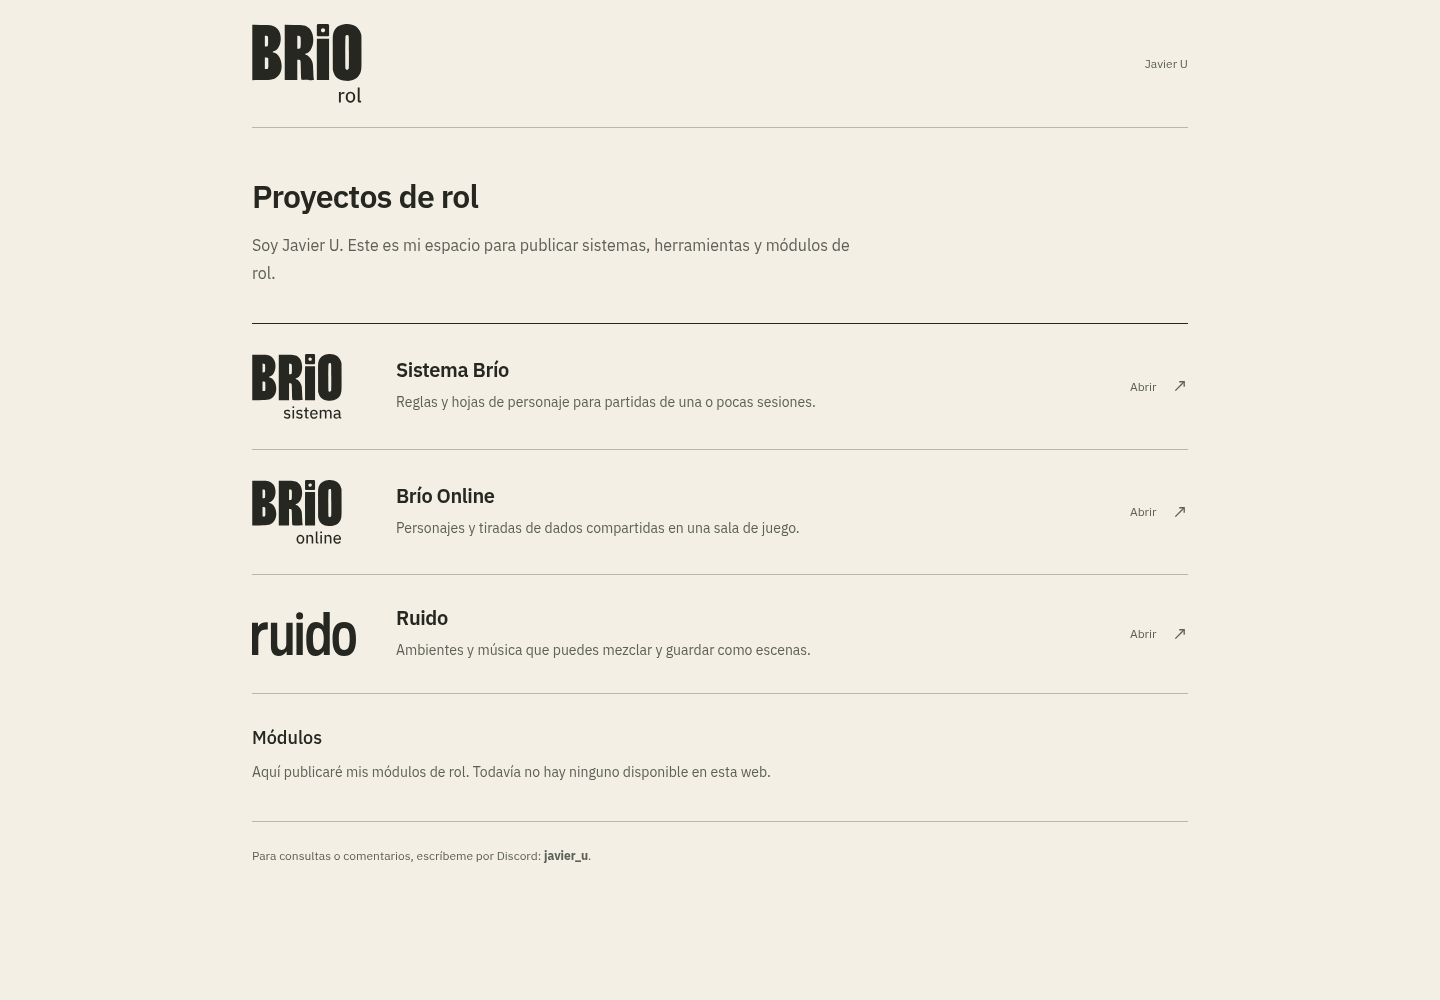
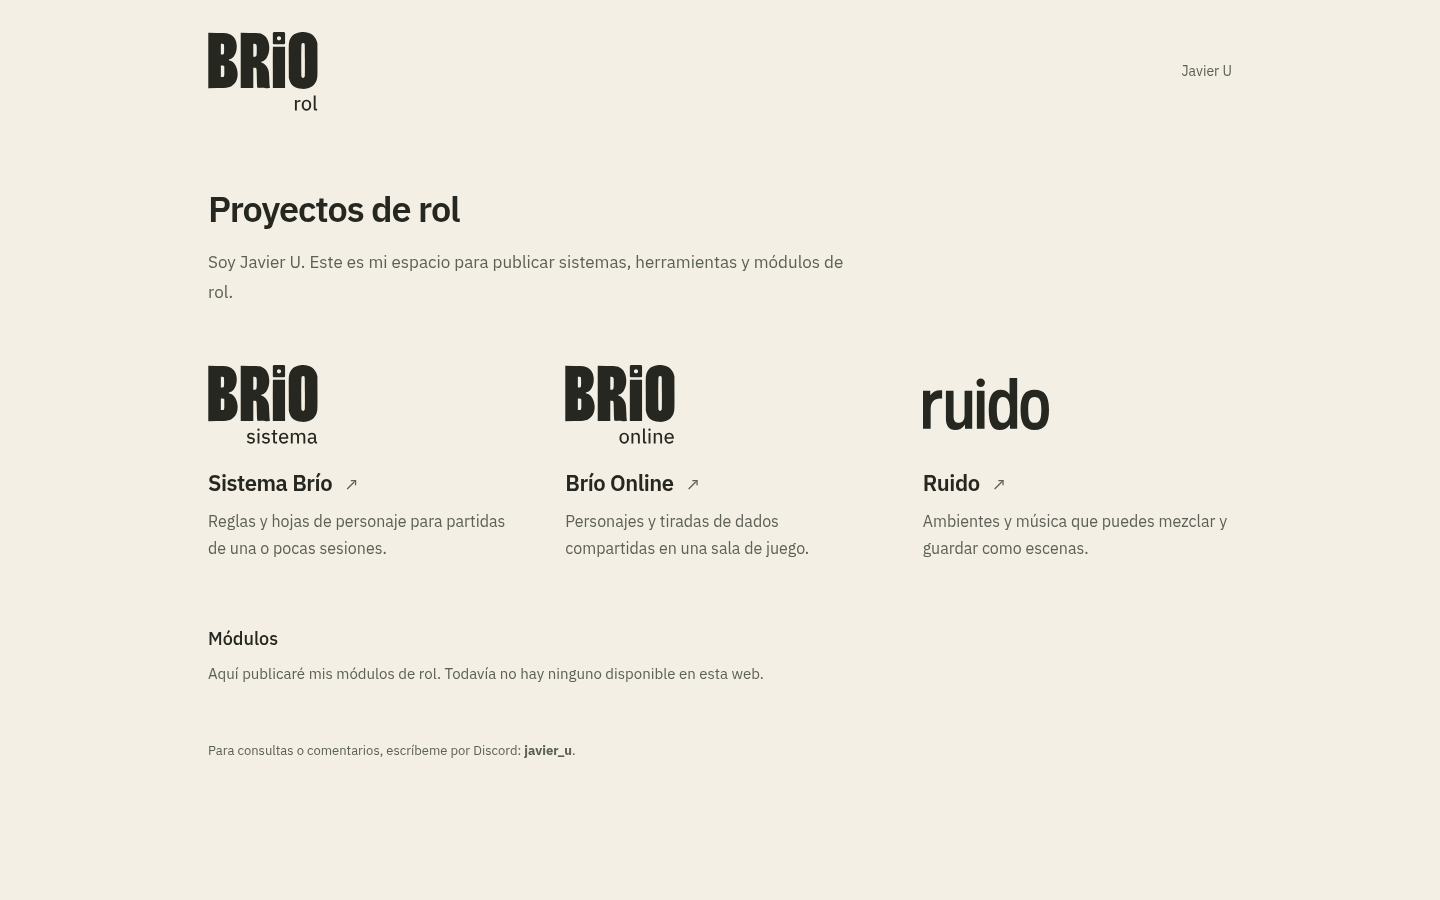
Use space and responsive columns for the Brío project directory

diff --git a/assets/landing.css b/assets/landing.css
@@ -1,13 +1,46 @@
-.directory-shell{max-width:1032px;padding:0 48px;margin:auto}.directory-header{display:flex;justify-content:space-between;align-items:center;gap:25px;padding:24px 0;border-bottom:1px solid var(--line)}.directory-header>a{display:flex;align-items:center;min-height:44px;gap:9px;font-size:12px;text-decoration:none}.directory-header img{width:110px;height:auto}.directory-header>a:last-child{color:var(--muted)}.directory-header>a:hover{color:var(--accent)}.directory-intro{padding:48px 0 35px}.directory-intro h1{font-family:var(--font-text);font-size:32px;font-weight:600;line-height:1.25;letter-spacing:-.025em}.directory-intro p{font-size:16px;line-height:1.8;max-width:610px;margin-top:15px;color:var(--muted)}.project-index{list-style:none;padding:0;border-top:1px solid var(--ink)}.project-index li{border-bottom:1px solid var(--line)}.project-index a{display:flex;align-items:center;justify-content:space-between;gap:36px;padding:27px 0;text-decoration:none}.project-index h2{font-family:var(--font-text);font-size:23px;font-weight:600;line-height:1.3;letter-spacing:-.02em}.project-index p{font-size:14px;line-height:1.8;color:var(--muted);margin-top:7px;max-width:660px}.directory-open{flex:none;display:inline-flex;align-items:center;gap:16px;font-size:12px;color:var(--muted)}.directory-open>span{font-size:19px}.project-index a:hover h2{text-decoration:underline;text-underline-offset:5px}.directory-modules{padding:31px 0 36px}.directory-modules h2{font-family:var(--font-text);font-size:18px;font-weight:500;line-height:1.4}.directory-modules p{font-size:14px;line-height:1.8;color:var(--muted);margin-top:10px;max-width:600px}.directory-footer{padding:23px 0 35px;border-top:1px solid var(--line);font-size:12px;line-height:1.8;color:var(--muted)}.directory-footer a{display:inline-flex;align-items:center;min-height:44px;color:var(--ink)}
-@media(max-width:760px){.directory-shell{padding:0 23px}.directory-header{padding:17px 0;gap:16px}.directory-header img{width:90px}.directory-header>a:last-child{font-size:10px;gap:5px}.directory-intro{padding:32px 0 27px}.directory-intro h1{font-size:29px}.directory-intro p{font-size:15px;line-height:1.75;margin-top:12px}.project-index a{gap:18px;padding:24px 0}.project-index h2{font-size:22px}.project-index p{font-size:13px;line-height:1.75}.directory-open{gap:0}.directory-open>span{display:none}.directory-modules{padding:26px 0 28px}.directory-modules h2{font-size:17px}.directory-modules p{font-size:13px}.directory-footer{font-size:11px;padding-bottom:25px}}
-@media(max-width:350px){.directory-shell{padding:0 18px}.directory-header img{width:82px}.directory-header>a:last-child{font-size:9px}.directory-intro h1{font-size:27px}}
-
-/* Shared family masters, presented at an optical rather than equal bounding-box size. */
-.project-index a{display:grid;grid-template-columns:112px minmax(0,1fr) auto;column-gap:32px;padding:30px 0}
-.project-logo{width:90px;height:auto;max-height:72px;object-fit:contain;object-position:left center}
-.project-logo--ruido{width:104px}
-.project-index h2{font-size:20px}
-@media(max-width:760px){.project-index a{grid-template-columns:80px minmax(0,1fr);gap:18px;padding:25px 0}.project-logo{width:72px;max-height:56px}.project-logo--ruido{width:80px}.directory-open{display:none}.project-index h2{font-size:19px}.project-index p{font-size:14px}}
-@media(max-width:350px){.project-index a{grid-template-columns:64px minmax(0,1fr);gap:14px}.project-logo{width:60px}.project-logo--ruido{width:64px}}
-
-.directory-author{font-size:12px;color:var(--muted)}
+.directory-shell{max-width:1120px;padding:0 48px;margin:auto}
+.directory-header{display:flex;justify-content:space-between;align-items:center;gap:24px;padding:32px 0}
+.directory-header>a{display:flex;align-items:center;min-height:44px;text-decoration:none}
+.directory-header img{width:110px;height:auto}
+.directory-author{font-size:14px;color:var(--muted)}
+.directory-intro{padding:44px 0 56px;max-width:650px}
+.directory-intro h1{font-family:var(--font-text);font-size:36px;font-weight:600;line-height:1.2;letter-spacing:-.03em}
+.directory-intro p{font-size:17px;line-height:1.75;margin-top:18px;color:var(--muted)}
+.project-index{display:grid;grid-template-columns:repeat(3,minmax(0,1fr));gap:48px;list-style:none;padding:0}
+.project-index li{min-width:0}
+.project-index a{display:block;height:100%;text-decoration:none}
+.project-logo{display:block;width:110px;height:82px;object-fit:contain;object-position:left center;margin-bottom:24px}
+.project-logo--ruido{width:126px}
+.project-index h2{display:flex;align-items:baseline;gap:12px;font-family:var(--font-text);font-size:22px;font-weight:600;line-height:1.3;letter-spacing:-.02em}
+.project-arrow{font-size:18px;font-weight:400;color:var(--muted)}
+.project-index p{font-size:16px;line-height:1.7;color:var(--muted);margin-top:10px;max-width:32ch}
+.project-index a:hover h2{text-decoration:underline;text-underline-offset:5px}
+.project-index a:hover .project-arrow{color:var(--accent)}
+.directory-modules{padding:64px 0 0;max-width:560px}
+.directory-modules h2{font-family:var(--font-text);font-size:18px;font-weight:500;line-height:1.4}
+.directory-modules p{font-size:15px;line-height:1.7;color:var(--muted);margin-top:10px}
+.directory-footer{padding:52px 0 36px;font-size:13px;line-height:1.8;color:var(--muted)}
+@media(max-width:760px){
+ .directory-shell{padding:0 24px}
+ .directory-header{padding:24px 0}
+ .directory-header img{width:90px}
+ .directory-author{font-size:13px}
+ .directory-intro{padding:28px 0 40px}
+ .directory-intro h1{font-size:30px}
+ .directory-intro p{font-size:16px;margin-top:14px}
+ .project-index{grid-template-columns:1fr;gap:36px}
+ .project-index a{display:grid;grid-template-columns:86px minmax(0,1fr);gap:24px;align-items:start}
+ .project-logo{width:76px;height:62px;margin:3px 0 0}
+ .project-logo--ruido{width:86px}
+ .project-index h2{font-size:21px;gap:10px}
+ .project-index p{font-size:15px;line-height:1.7;margin-top:7px;max-width:38ch}
+ .directory-modules{padding-top:48px}
+ .directory-footer{padding-top:36px;padding-bottom:32px}
+}
+@media(max-width:360px){
+ .directory-shell{padding:0 20px}
+ .project-index a{grid-template-columns:68px minmax(0,1fr);gap:18px}
+ .project-logo{width:62px;height:52px}
+ .project-logo--ruido{width:68px}
+ .project-index h2{font-size:19px}
+}

diff --git a/index.html b/index.html
@@ -4,9 +4,9 @@
 <header class="directory-header"><a href="./" aria-label="Brío Rol, inicio"><img src="assets/brio-rol.svg" alt="Brío Rol" width="110" height="79"></a><span class="directory-author">Javier U</span></header>
 <main id="contenido"><div class="directory-intro"><h1>Proyectos de rol</h1><p>Soy Javier U. Este es mi espacio para publicar sistemas, herramientas y módulos de rol.</p></div>
 <ul class="project-index" aria-label="Proyectos disponibles">
-<li><a href="https://sistema.briorol.com/"><img class="project-logo project-logo--brio" src="assets/brio-sistema.svg" alt="" width="100" height="72"><div><h2>Sistema Brío</h2><p>Reglas y hojas de personaje para partidas de una o pocas sesiones.</p></div><span class="directory-open">Abrir <span aria-hidden="true">↗</span></span></a></li>
-<li><a href="https://online.briorol.com/"><img class="project-logo project-logo--brio" src="assets/brio-online.svg" alt="" width="100" height="72"><div><h2>Brío Online</h2><p>Personajes y tiradas de dados compartidas en una sala de juego.</p></div><span class="directory-open">Abrir <span aria-hidden="true">↗</span></span></a></li>
-<li><a href="https://ruido.briorol.com/"><img class="project-logo project-logo--ruido" src="assets/ruido.svg" alt="" width="100" height="40"><div><h2>Ruido</h2><p>Ambientes y música que puedes mezclar y guardar como escenas.</p></div><span class="directory-open">Abrir <span aria-hidden="true">↗</span></span></a></li>
+<li><a href="https://sistema.briorol.com/"><img class="project-logo project-logo--brio" src="assets/brio-sistema.svg" alt="" width="100" height="72"><div><h2>Sistema Brío <span class="project-arrow" aria-hidden="true">↗</span></h2><p>Reglas y hojas de personaje para partidas de una o pocas sesiones.</p></div></a></li>
+<li><a href="https://online.briorol.com/"><img class="project-logo project-logo--brio" src="assets/brio-online.svg" alt="" width="100" height="72"><div><h2>Brío Online <span class="project-arrow" aria-hidden="true">↗</span></h2><p>Personajes y tiradas de dados compartidas en una sala de juego.</p></div></a></li>
+<li><a href="https://ruido.briorol.com/"><img class="project-logo project-logo--ruido" src="assets/ruido.svg" alt="" width="100" height="40"><div><h2>Ruido <span class="project-arrow" aria-hidden="true">↗</span></h2><p>Ambientes y música que puedes mezclar y guardar como escenas.</p></div></a></li>
 </ul>
 <section class="directory-modules" aria-labelledby="modules-title"><h2 id="modules-title">Módulos</h2><p>Aquí publicaré mis módulos de rol. Todavía no hay ninguno disponible en esta web.</p></section>
 </main><footer class="directory-footer"><p>Para consultas o comentarios, escríbeme por Discord: <strong>javier_u</strong>.</p></footer>

diff --git a/docs/DECISIONS.md b/docs/DECISIONS.md
@@ -131,3 +131,11 @@ Fecha: 2026-11-05. Estado: aplicado y enviado a publicación.
 La firma pública es Javier U. El contacto es el usuario de Discord `javier_u`, confirmado por el autor. Se retiran la web profesional y el correo de las superficies públicas actuales. Se presenta el nombre de usuario sin inventar un enlace de perfil. Los créditos propios y la licencia usan el seudónimo; se conservan los derechos de terceros. No se reescribe el historial de Git.
 
 La portada de Sistema presenta brevemente el producto y los accesos a reglas, materiales y Online. El ejemplo de tirada queda en las reglas, no en portada.
+
+## D-020 — Separar proyectos por composición y espacio
+
+Fecha: 2026-11-05. Estado: implementada; publicación mediante el PR #6.
+
+Se eliminan las líneas del encabezado, el listado y el pie. La portada usa tres columnas en escritorio y una lista con logo y texto en móvil; el espacio, la alineación y la tipografía distinguen los proyectos. Se mantienen los nombres, descripciones y destinos. La flecha se integra en el título enlazado y sustituye el «Abrir» repetido. No se añaden tarjetas, fondos de color ni sombras para reemplazar los bordes. Las capturas vigentes se actualizan tras comprobar la composición.
+
+La revisión del directorio se comprueba a cinco anchuras, con destinos de enlace, carga de logos y navegación con teclado. El cambio queda en el PR #6; las capturas de escritorio y móvil acompañan estas specs.

diff --git a/docs/specs/03-family-web.md b/docs/specs/03-family-web.md
@@ -36,3 +36,7 @@ Los despliegues de Sistema, Online y Brío Rol terminaron correctamente el 2026-
 Se descarta el tratamiento de portada de la primera entrega: titular de campaña en mayúsculas, tipografía condensada e ilustración de un portal. El texto presenta el uso del sistema directamente y un ejemplo de las reglas sustituye la decoración: Destreza 3, dificultad 4, resultados 4/2/5 y dos éxitos. Se usa Plex en toda la web. Se eliminan numeraciones sin secuencia real, etiquetas repetidas y flechas de enlaces internos. La revisión no cambia mecánicas ni PDFs. Las capturas se actualizan con esta segunda aplicación.
 
 Tras revisión del autor, la portada de Sistema se limita a presentación y accesos. El ejemplo y las explicaciones quedan dentro de las reglas. La firma es Javier U y el contacto público es el usuario de Discord `javier_u`.
+
+El directorio Brío Rol prescinde de separadores por fila, encabezado y pie. Los tres proyectos se presentan en columnas en escritorio y como filas abiertas en móvil. Mantener una jerarquía clara y enlaces reconocibles sin recurrir a bordes o tarjetas.
+
+Directorio sin bordes verificado a 320, 390, 760, 1024 y 1440 px: sin desbordamiento horizontal, logos cargados, destinos conservados y foco de teclado visible. Capturas: [escritorio](../previews/directory-desktop.png) y [móvil](../previews/directory-mobile.png).
